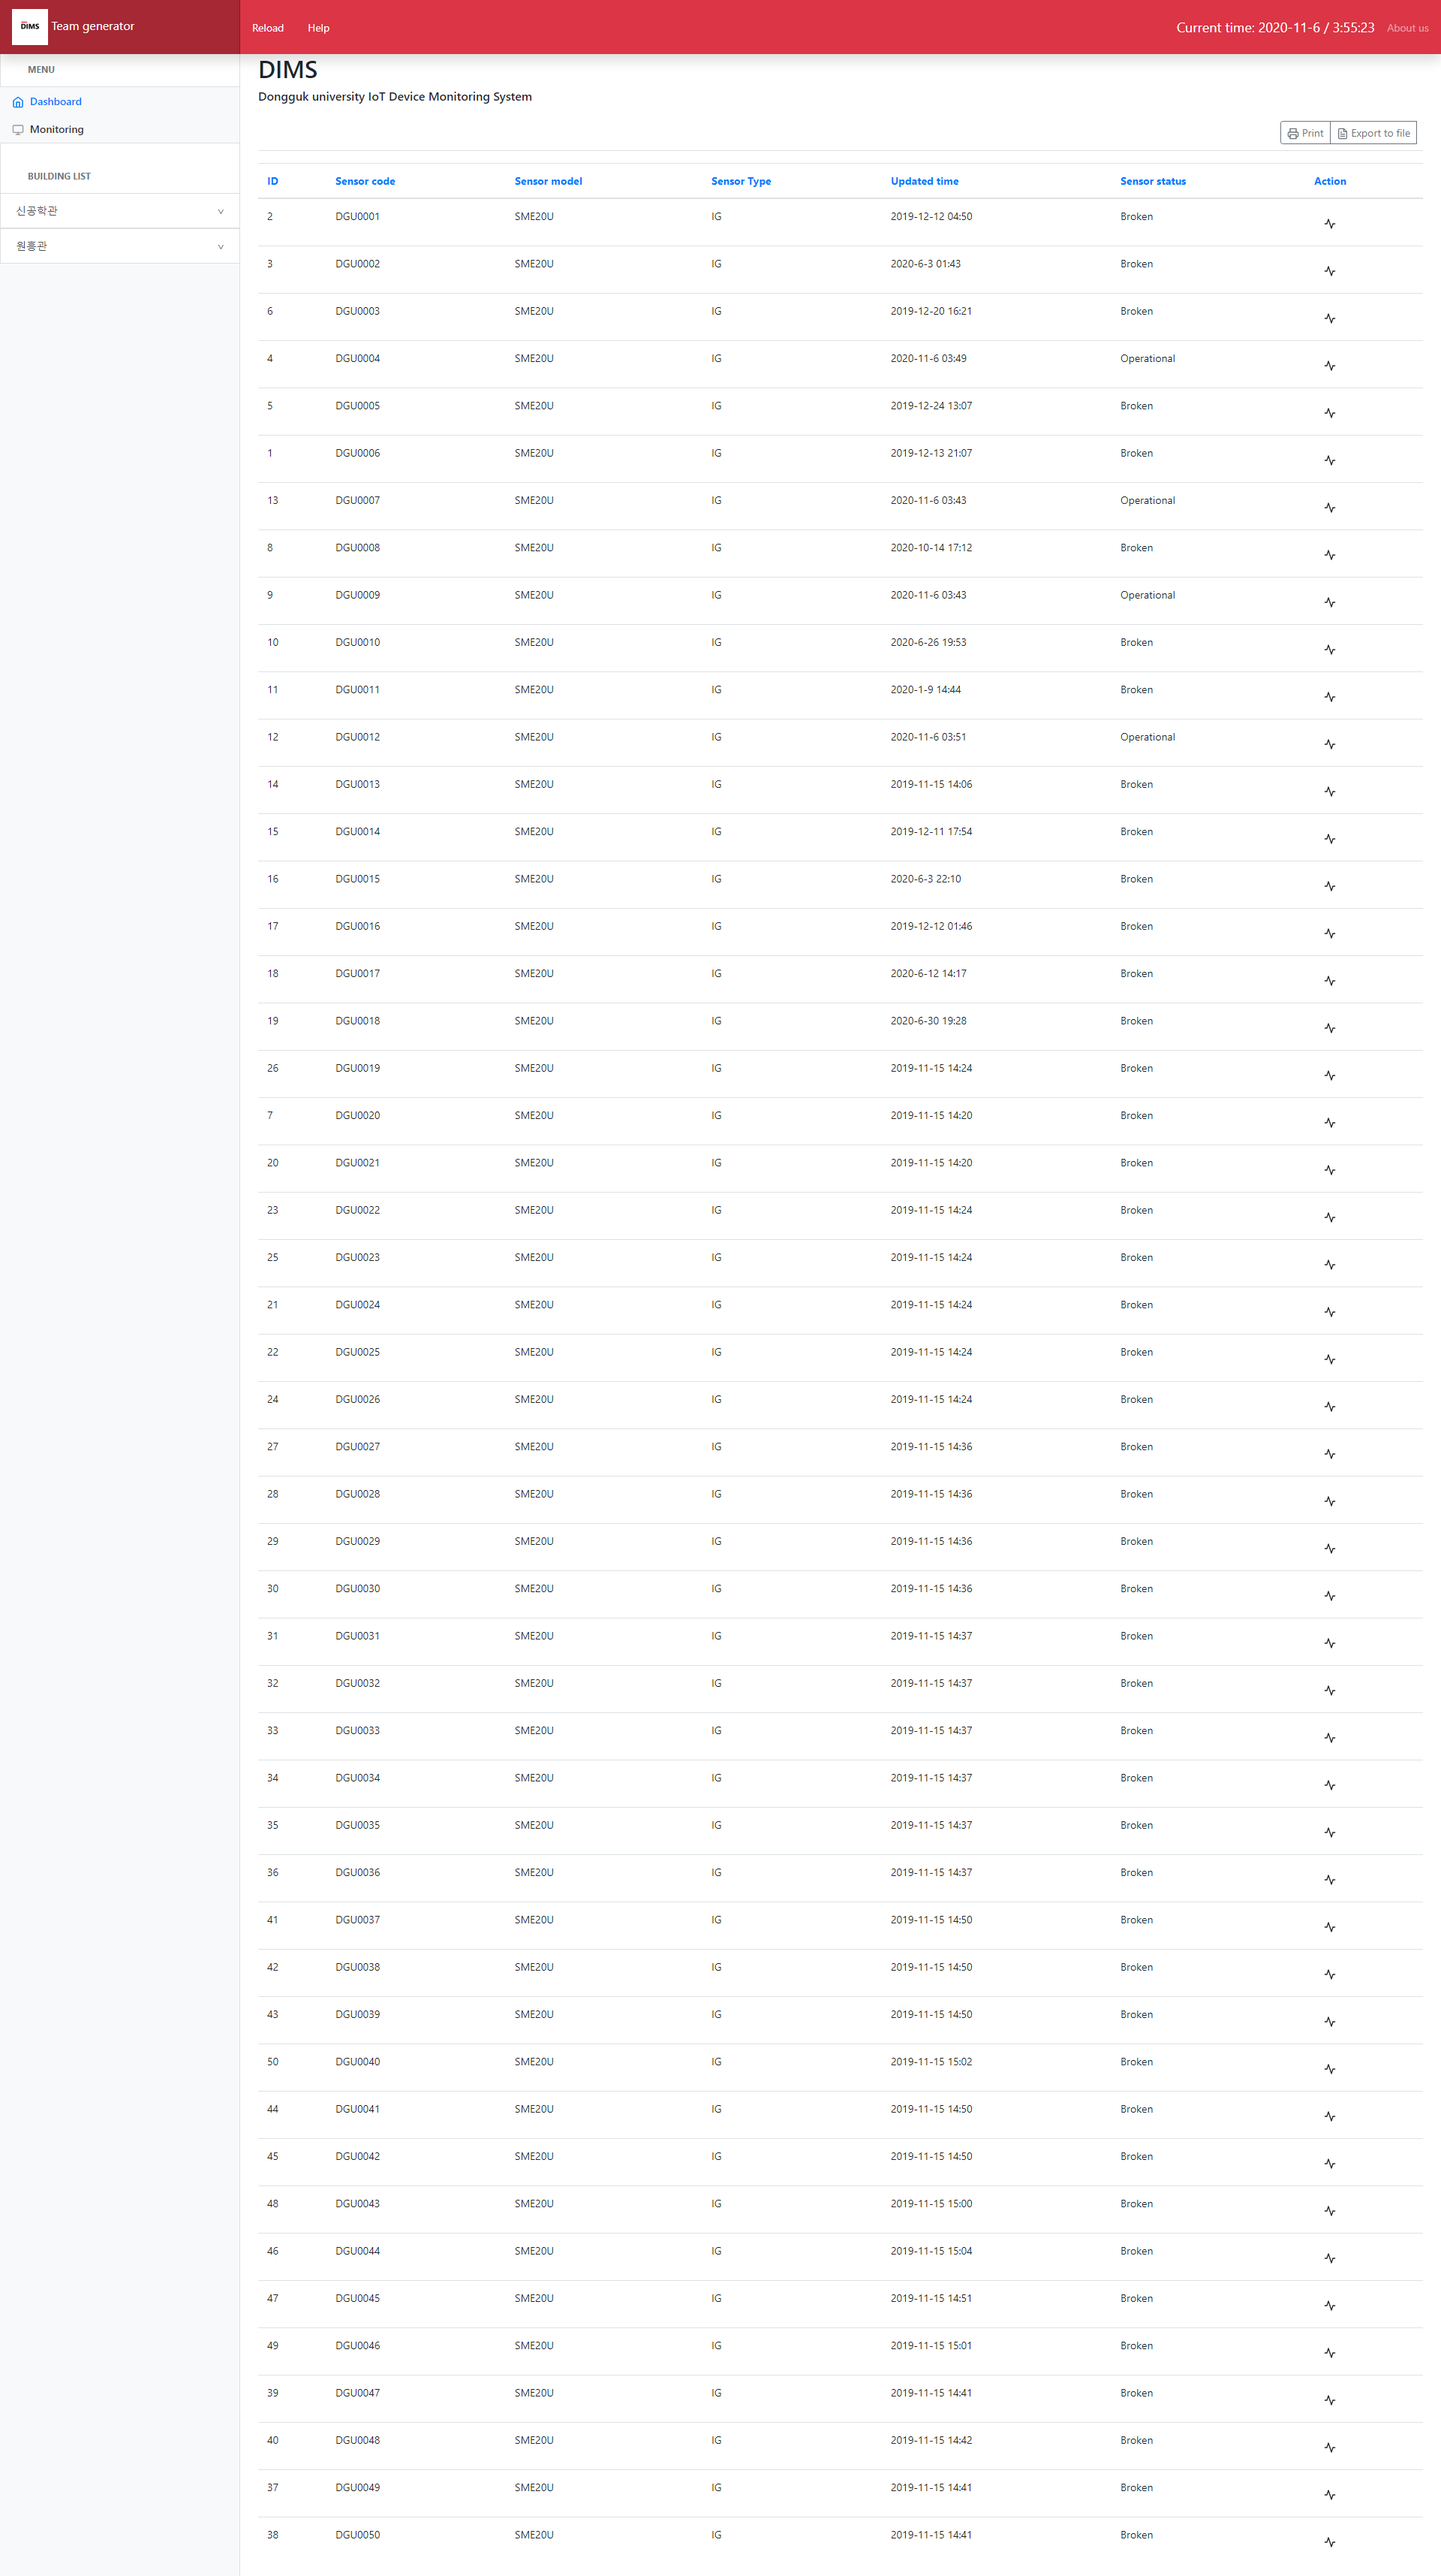
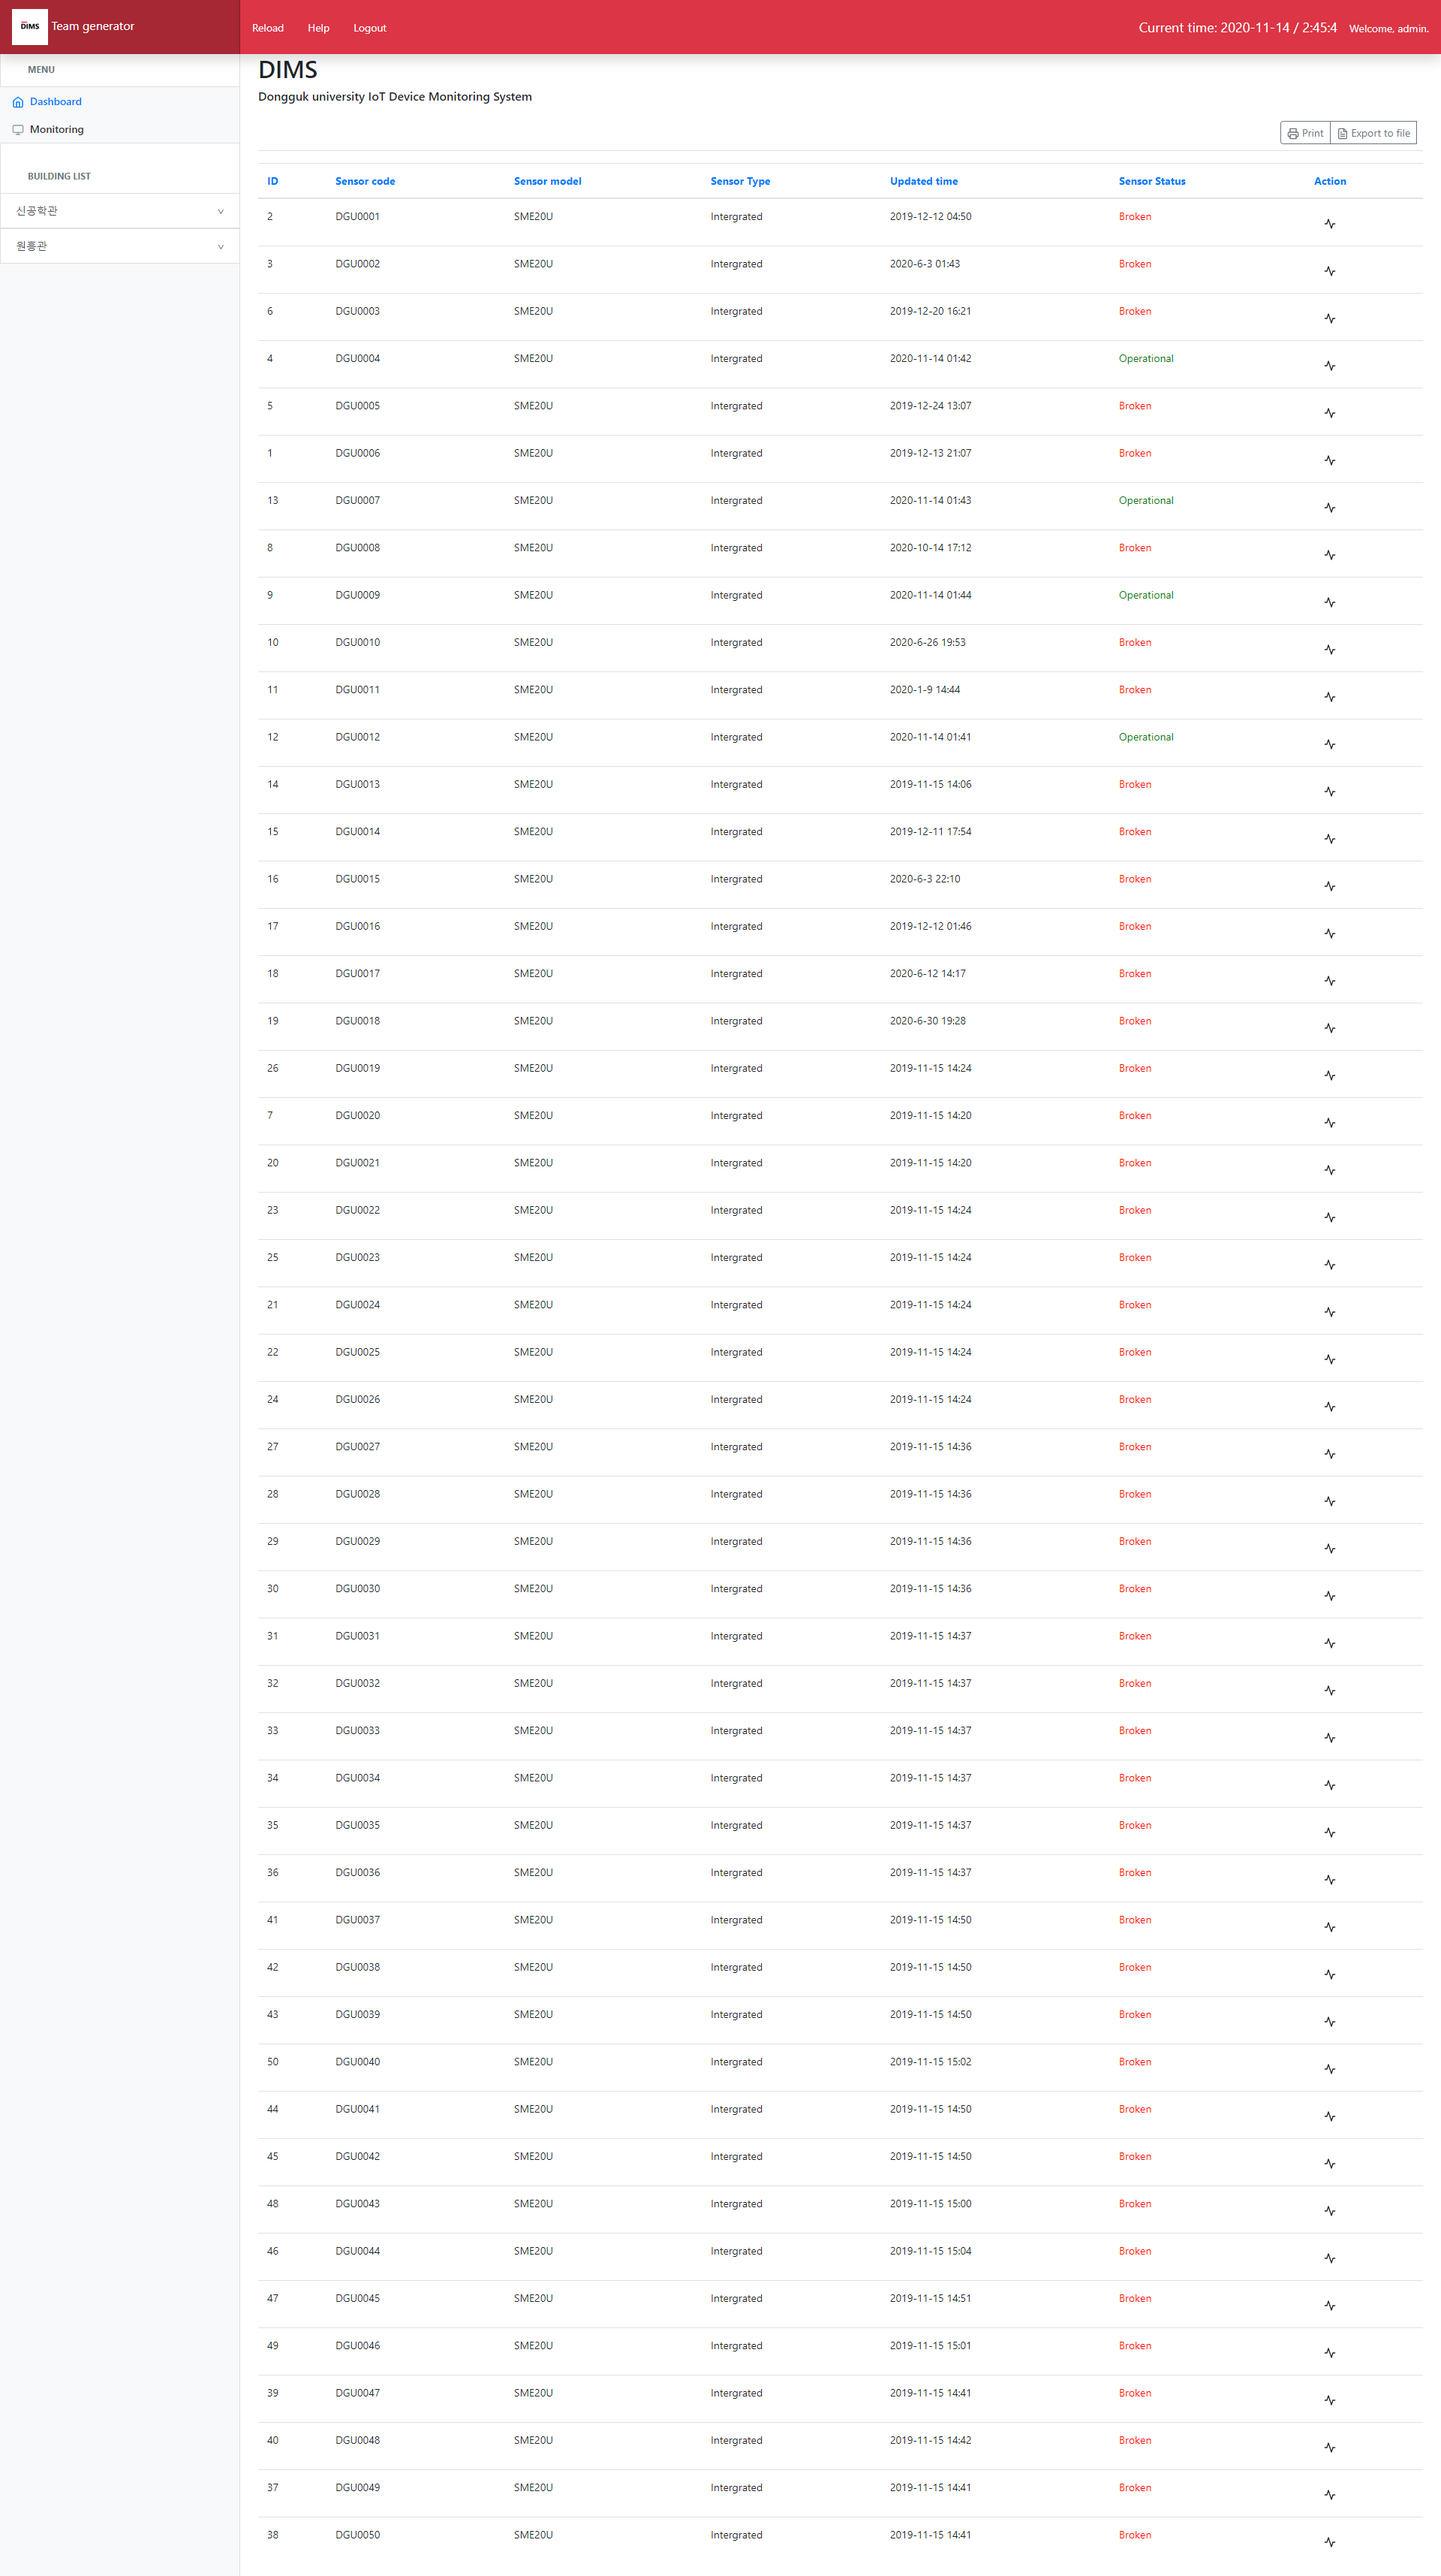
Update README

Changed region(s): [[0.7812, 0.2808, 0.8125, 0.312], [0.7812, 0.1872, 0.8125, 0.2184]]

diff --git a/README.md b/README.md
@@ -2,8 +2,12 @@
 RPA를 활용한 IoT 디바이스 제어 및 관리 서비스  
 [웹 사이트](http://ec2-18-206-198-8.compute-1.amazonaws.com)
 ## Recent Update
-* 로그인 / 로그아웃 / 가입 기능 구현
-* Monitoring 페이지의 이메일은 현재 로그인한 사용자로 설정
+* 데이터베이스 재설계
+  * 따로 존재하던 SME20U_Value와 분석에만 쓰이는 Log 테이블을 상속 관계로 만들었음
+  * 모니터링 테이블의 행은 고장 현상당 한개씩 하기 위하여, 마찬가지로 Log 테이블을 상속받는 FaultLog 테이블을 생성하고 이것을 출력
+* 테이블 스타일링
+  * Dashboard: 센서 상태에 따라 색깔을 달리함 (BR: 빨간색, TE: 주황색, OP: 초록색, WN: 노란색)
+  * Monitoring: is_reported가 True일 경우, 행 색깔을 회색으로 색칠하였음
 
 ## 1. Installation
 ### 1.1. Django project
